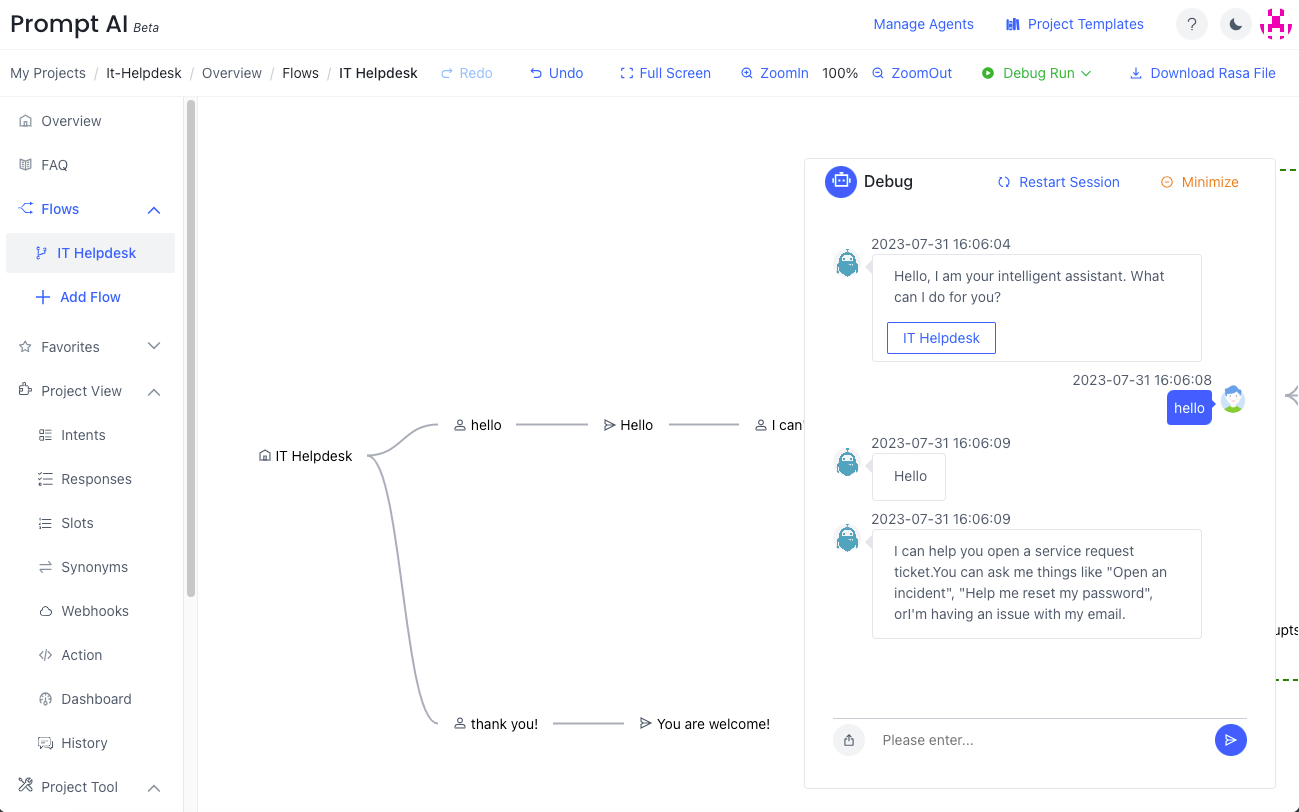
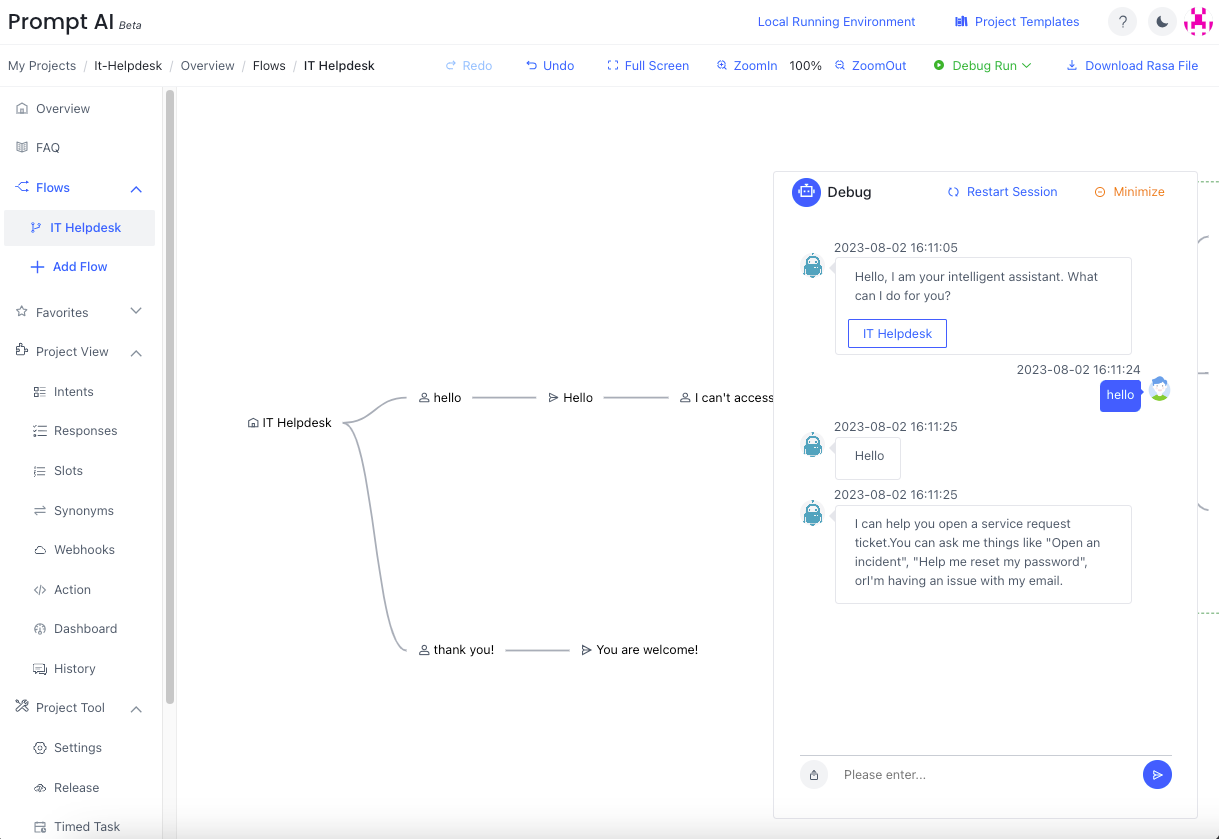
1、update overview

diff --git a/docs/run_bots.md b/docs/run_bots.md
@@ -10,7 +10,7 @@ After successfully creating an account, you can start designing your chatbot imm
 
 
 ## Local Running Environment (LRE)
-The local running environment uses a docker implementation that packages RASA 3.2.0 and an agent that communicates between PromptDialog Cloud and the local RASA environment.   PromptDialog Cloud manages all aspects of your designs and the local RASA environment is in charge of training the model. 
+The local running environment uses a docker implementation that packages RASA 3.2.0 and an agent that communicates between PromptDialog Cloud and the local RASA environment.   PromptDialog Cloud manages all aspects of your designs and the local RASA environment is in charge of training the model.
 
 ![03-local-running-env.png](/assets/images/local_running_env/03-local-running-env.png)
 

diff --git a/docs/overview.md b/docs/overview.md
@@ -24,7 +24,7 @@ Create your first dialog flow.
 ![overview_create_dialog_flow.jpg](/assets/images/overview/overview_create_dialog_flow.jpg)
 
 ## Step 2 - Create the local environment
-You can build a local running environment with one line of command. For details, please check [local running environement](/docs/local_running_env) and check [install question](/docs/common_questions/install_questions) if you have any question. 
+You can build a local running environment with one line of command. For details, please check [Run Chatbots:LRE](/docs/run_bots) and check [install question](/docs/common_questions/install_questions) if you have any question. 
 
 ![overview_create_agent.jpg](/assets/images/overview/overview_create_agent.jpg)
 
